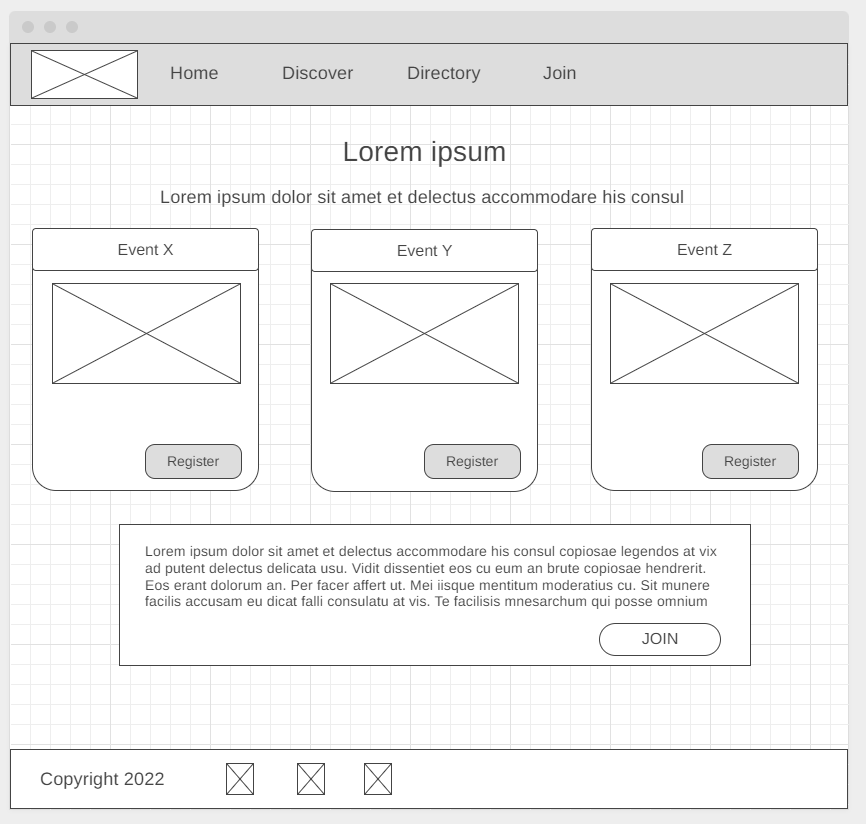
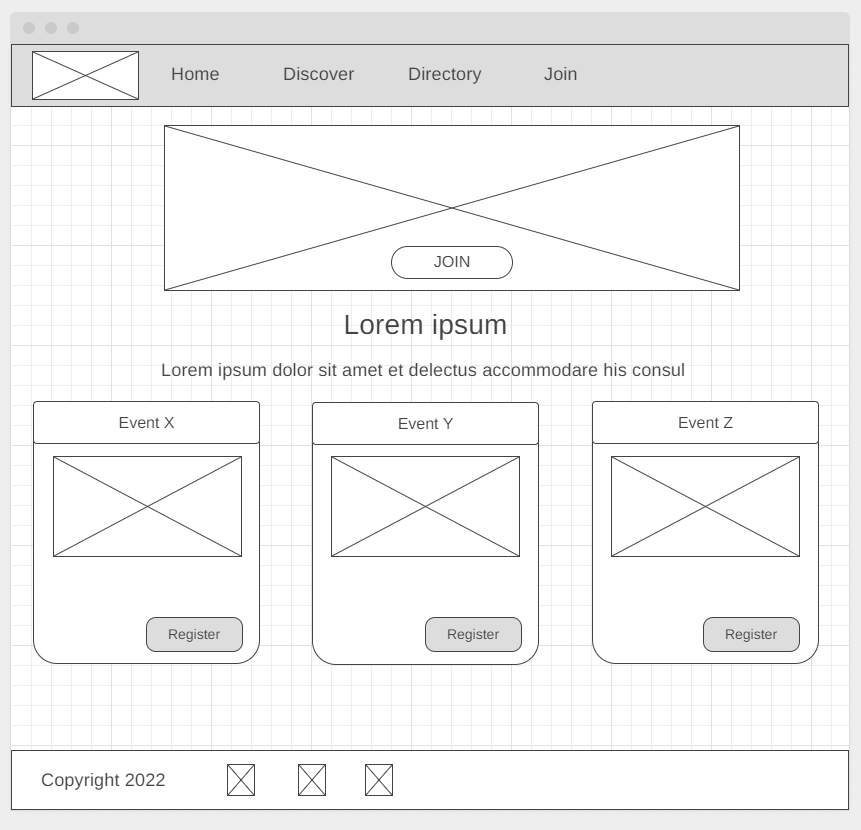
Chamber Home Page

diff --git a/chamber/styles/base.css b/chamber/styles/base.css
@@ -1,0 +1,111 @@
+@import url('https://fonts.googleapis.com/css2?family=Merriweather&family=Roboto+Condensed&display=swap');
+
+:root {
+
+  --blue-saphire: #2e677aff;    /* primary color */
+  --orange-red: #eb7131ff;      /* secondary color */
+
+  /* additional colors based on primary and secondary colors */
+  --lavender-web: #eeeeffff;    
+  --laurel-green: #9fb798ff;
+  --bistre: #342a21ff;
+  --gainsboro: #dddadaff;
+
+  /* colors for fonts */
+  --light-gray: #CCC9C9ff;
+  --davys-grey: #5d5d5dff;
+  --silver: #c2c2c2ff;  
+    
+  /* variables for colors from palette */
+  --primary-color: var(--blue-saphire);
+  --secondary-color: var(--orange-red);
+  --accent1-color: var(--lavender-web);
+  --accent2-color: var(--laurel-green);
+
+  /* values below to your chosen font(s) */
+  --heading-font: 'Merriweather', serif;
+  --paragraph-font: 'Roboto Condensed', sans-serif;
+
+  /* these colors below should be chosen from among your palette colors above */
+  --headline-color-on-white: var(--primary-color);  /* headlines on a white background */ 
+  --headline-color-on-color: var(--accent1-color); /* headlines on a colored background */ 
+  --paragraph-color-on-white: var(--davys-grey); /* paragraph text on a white background */ 
+  --paragraph-color-on-color: var(--gainsboro); /* paragraph text on a colored background */ 
+  --paragraph-background-color: var(--primary-color);
+  --nav-link-color: var(--accent1-color);
+  --nav-background-color: #2e677add;  /* primary-color with different saturation */
+  --nav-hover-link-color: var(--primary-color);
+  --nav-hover-background-color: var(--accent2-color);
+}
+
+body {
+    max-width: 960px;
+    margin: 0 auto;
+    padding: 4em;
+    font-size: 18px;
+    text-align: center;
+    font-family: var(--paragraph-font);
+}
+
+footer {
+    background-color: var(--accent1-color);
+}
+nav {
+    margin: 0 auto;
+    background-color: black;
+    color: white;
+    
+    font-family: var(--navigation-font);
+    font-size: 24px;
+    display: flex;
+    flex-direction: column;
+}    
+
+.navigation {
+    list-style: none;
+    margin: 0;
+    padding: 0;
+}
+
+.navigation li:first-child {
+    display: block;
+}
+
+.navigation li {
+    display: none;
+}
+
+.navigation a {
+    display: block;
+    color: white;
+    text-decoration: none;
+    padding: 0.5rem;
+    /* 
+    text-align: left;
+    transition: 0.5s; 
+    font-weight: 700;
+    font-size: clamp(1re, 2vmin, 1.5rem);
+    */
+}
+
+.navMenu::before {
+    content: "≡";
+    font-size: 2rem;
+}
+
+.navigation a:hover, .navigation a:active {
+    color: black;
+    background-color: white;
+}
+
+.responsive li {
+    display: block;
+}
+
+.responsive .navMenu::before {
+    content: "X";
+}
+
+.heroImg {
+    max-width: 300px;
+}

diff --git a/chamber/index.html b/chamber/index.html
@@ -1,0 +1,50 @@
+<!DOCTYPE html>
+<html lang="en-US">
+<head>
+    <meta charset="UTF-8">
+    <meta http-equiv="X-UA-Compatible" content="IE=edge">
+    <meta name="viewport" content="width=device-width, initial-scale=1.0">
+    <title>Pirituba Chamber of Commerce Portal - WDD230 Project</title>
+    <meta name="description" content="WDD 230 Americo Sadao Kutomi - Pirituba Chamber of Commerce Portal">
+    <meta name="author" content="Americo Sadao Kutomi">
+    <link rel="stylesheet" href="styles/base.css">
+    <link rel="stylesheet" href="styles/larger.css">
+</head>
+<body>
+    <header>
+
+        <nav>
+            <ul class="navigation">
+                <li><a class="navMenu" href="#"></a></li>
+                <li><a href="#">Home</a></li>
+                <li><a href="#">Discover</a></li>
+                <li><a href="#">Directory</a></li>
+                <li><a href="#">Join</a></li>
+            </ul>
+        </nav>
+    
+    </header>
+    <main>
+        <img class="heroImg" src="images/pico-do-jaragua.jpeg" alt="Jaragua Peak and Pirituba aerial sight">
+        <button>Join the Chamber</button>
+        <section class="currentEvents">
+            <h3>Place to publish the current events - Under construction</h3>
+        </section>
+        <section class="weather">
+            <h3>Place to publish the weather in Pirituba - Under construction</h3>
+        </section>
+        <section class="spotlights">
+            <h3>Place to publish spotlights like advertisements - Under construction</h3>
+        </section>
+    </main>
+    <footer>
+        <p>&copy; <a id="currentYear">20XX</a> - Americo Sadao Kutomi - Sao Paulo - Brazil</p>
+        <p>+55 11 98026-XXXX</p>
+        <p>This is a project for WDD230 class.</p>
+        <p class="highlight" id="lastModified"></p>
+    </footer>
+    <script src="scripts/getDates.js"></script>
+    <script src="scripts/hamburger.js"></script>
+   
+</body>
+</html>

diff --git a/index.html b/index.html
@@ -54,7 +54,10 @@
             </section>
             <section class="card">
                 <h3>Project</h3>
-                <a href="week01/chamber-site-plan.html">The Pirituba Chamber of Commerce Site Plan</a>
+                <ul>
+                    <li><a href="week01/chamber-site-plan.html">The Pirituba Chamber of Commerce Site Plan</a></li>
+                    <li><a href="chamber/index.html">The Pirituba Chamber of Commerce Portal</a></li>
+                </ul>
             </section>
             <section class="card">
                 <h3>Information</h3>

diff --git a/chamber/scripts/hamburger.js b/chamber/scripts/hamburger.js
@@ -1,0 +1,7 @@
+// Store the selected elements that we are going to use. 
+const mainnav = document.querySelector('.navigation')
+const hambutton = document.querySelector('.navMenu');
+
+// Add a simple arrow function that listens for the <li> hamburger button click event.
+// When clicked, the <ul class="navigation">'s class list toggle'
+hambutton.addEventListener('click', () => {mainnav.classList.toggle('responsive')}, false);

diff --git a/chamber/styles/larger.css b/chamber/styles/larger.css
@@ -1,0 +1,23 @@
+@media only screen and (min-width: 40em) {
+    
+    .navigation {
+        display: flex;
+    }
+
+    .navigation li {
+        display: block;
+        flex: 1 1 auto;
+    }
+
+    .navigation a {
+        text-align: center;
+    }
+
+    .navigation li:first-child {
+        display: none;
+    }
+
+    .heroImg {
+        max-width: 800px;
+    }
+}

diff --git a/chamber/scripts/getDates.js b/chamber/scripts/getDates.js
@@ -1,0 +1,4 @@
+const currentDate = new Date();
+document.querySelector('#currentYear').textContent = currentDate.getFullYear();
+
+document.querySelector('#lastModified').textContent = 'Last Modification: ' + document.lastModified;
